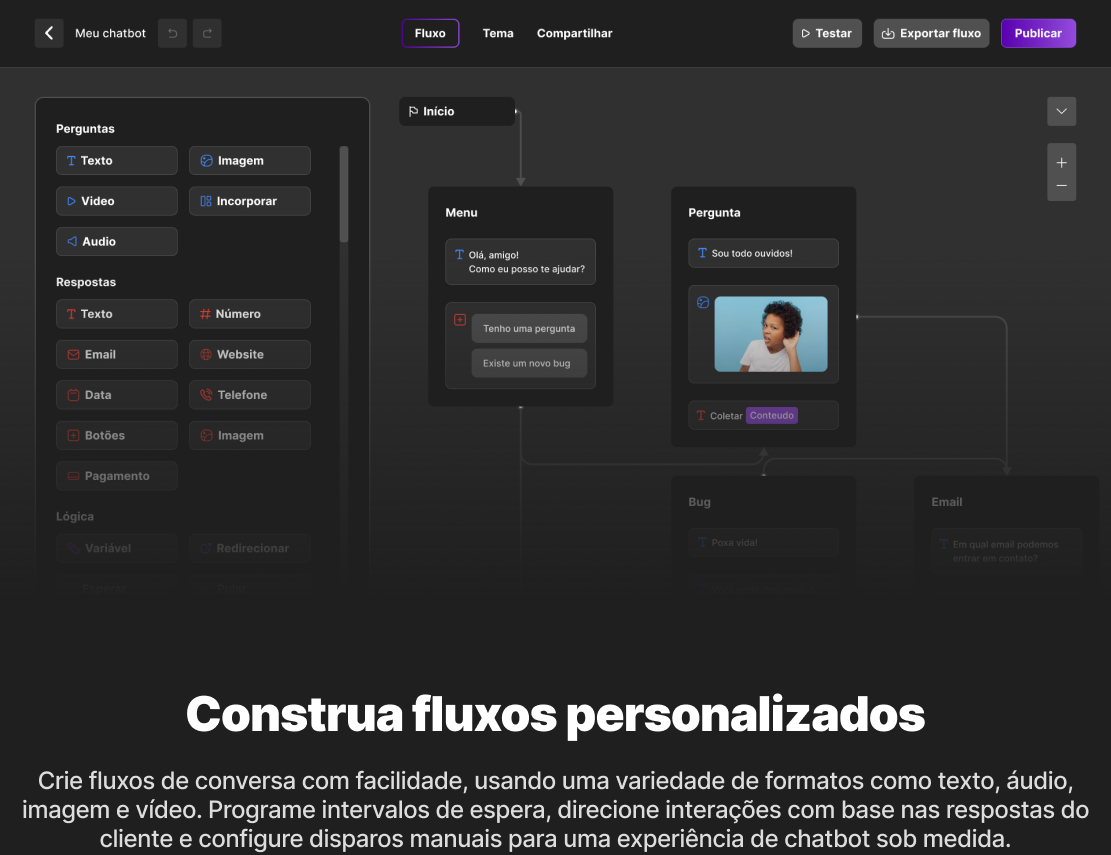
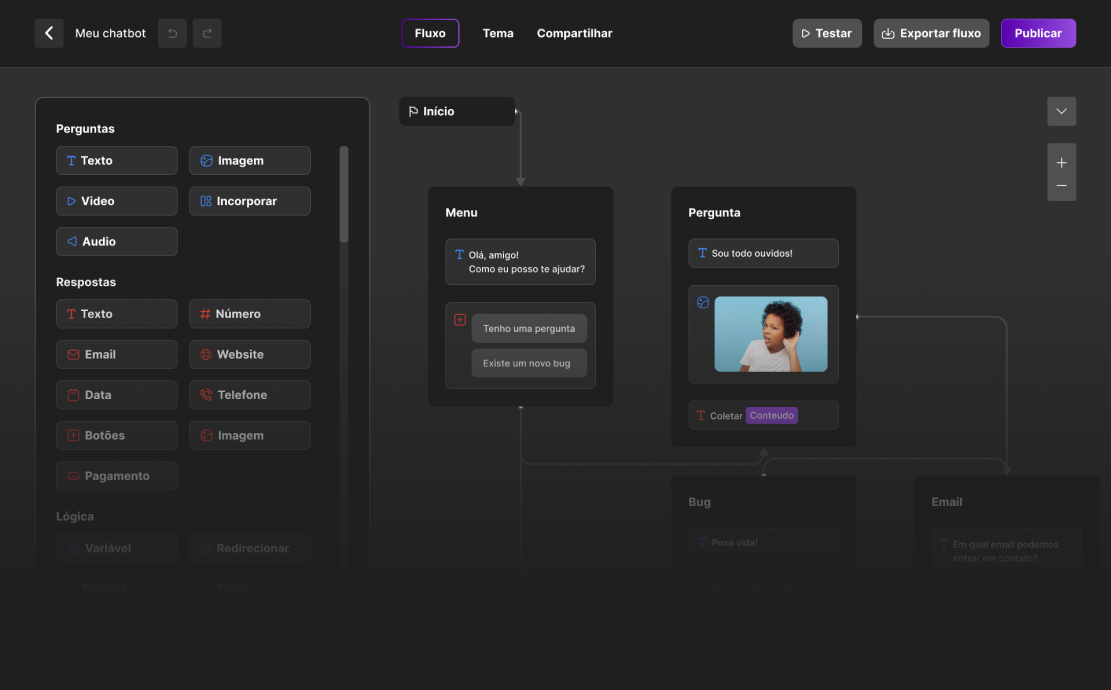
updated custom-flow image & text

diff --git a/src/components/home/CustomFlows.tsx b/src/components/home/CustomFlows.tsx
@@ -3,13 +3,25 @@ import Image from "next/image";
 export default function CustomFlows() {
   return (
     <section className="cr-container">
-      <div className="flex justify-center">
+      <div className="flex flex-col items-center justify-center">
         <Image
           src="/assets/home/custom-flow.png"
           alt="UI showing building custom flow"
           width={1000}
           height={1000}
         />
+        <div className="flex flex-col gap-4 text-center max-w-4xl">
+          <h3 className="text-4xl font-extrabold">
+            Construa fluxos personalizados
+          </h3>
+          <p className="text-lg md:text-xl duration-300">
+            Crie fluxos de conversa com facilidade, usando uma variedade de
+            formatos como texto, áudio, imagem e vídeo. Programe intervalos de
+            espera, direcione interações com base nas respostas do cliente e
+            configure disparos manuais para uma experiência de
+            chatbot sob medida.
+          </p>
+        </div>
       </div>
     </section>
   );
